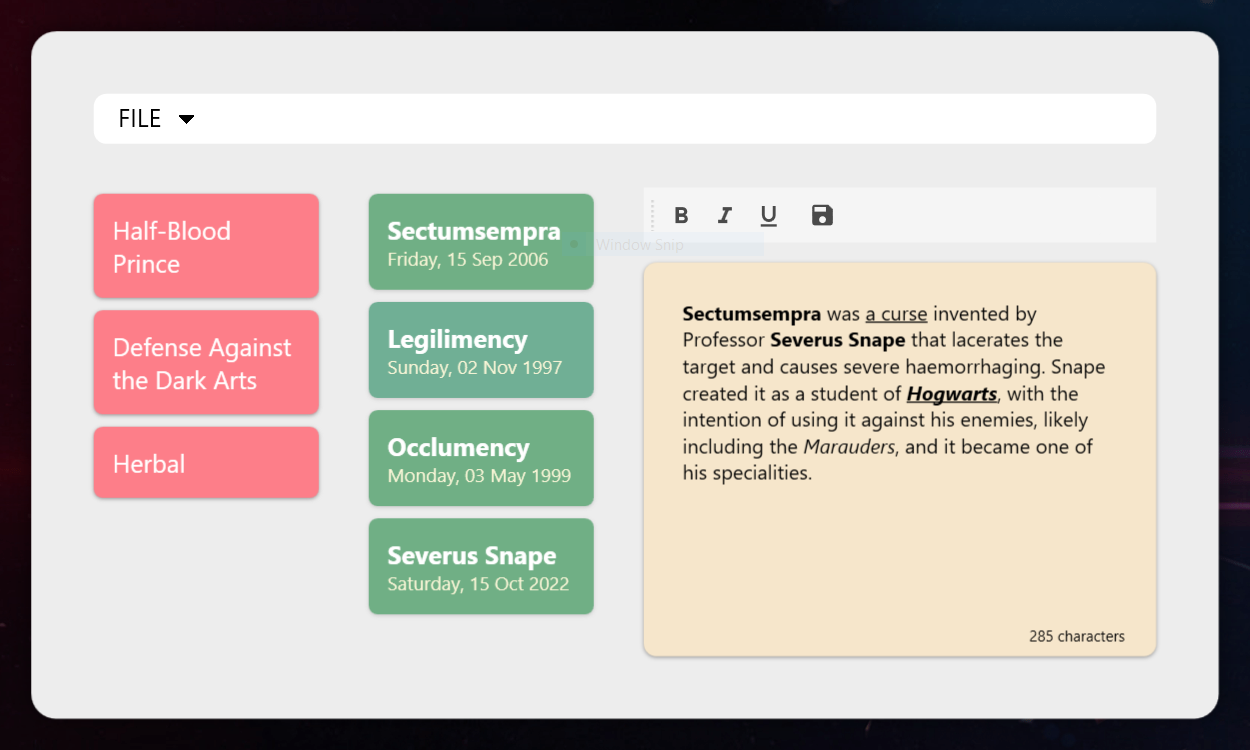
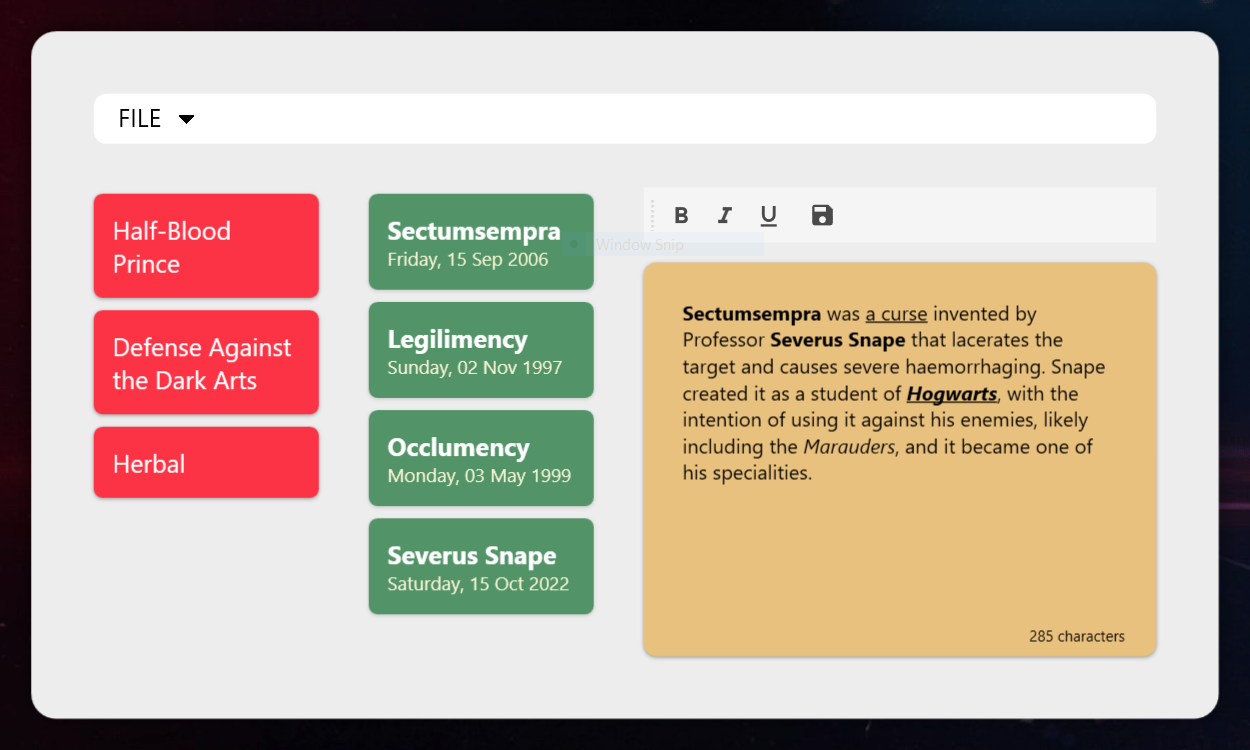
Update Color

diff --git a/NoteApp/MyResourceDictionary/MyCustomCards.xaml b/NoteApp/MyResourceDictionary/MyCustomCards.xaml
@@ -9,7 +9,7 @@
             <Setter.Value>
                 <ControlTemplate TargetType="materialDesign:Card">
                     <Border x:Name="border"
-                            Background="#FD7E89"
+                            Background="#fc3345"
                             Margin="5"
                             CornerRadius="7">
                         <Grid>
@@ -24,7 +24,7 @@
                     <ControlTemplate.Triggers>
                         <Trigger Property="IsMouseOver" Value="True">
                             <Setter TargetName="border"
-                                    Property="Background" Value="#FD7E99"/>
+                                    Property="Background" Value="#FD7E89"/>
                         </Trigger>
                     </ControlTemplate.Triggers>
                 </ControlTemplate>
@@ -39,7 +39,7 @@
             <Setter.Value>
                 <ControlTemplate TargetType="materialDesign:Card">
                     <Border x:Name="border"
-                            Background="#70AF85"
+                            Background="#529368"
                             Margin="5"
                             CornerRadius="7">
                         <Grid>
@@ -60,7 +60,7 @@
                     <ControlTemplate.Triggers>
                         <Trigger Property="IsMouseOver" Value="True">
                             <Setter TargetName="border"
-                                    Property="Background" Value="#70AF95"/>
+                                    Property="Background" Value="#70AF85"/>
                         </Trigger>
                     </ControlTemplate.Triggers>
                 </ControlTemplate>

diff --git a/NoteApp/View/NotesWindow.xaml b/NoteApp/View/NotesWindow.xaml
@@ -187,7 +187,7 @@
                 HorizontalAlignment="Right"
                 VerticalAlignment="Bottom"
                 Margin="0 0 75 75"
-                Background="#F6E6CB"
+                Background="#e9c17e"
                 CornerRadius="10">
             <Border.Effect>
                 <DropShadowEffect BlurRadius="5" ShadowDepth="1" Direction="270" Color="#CCCCCC"/>
@@ -199,7 +199,7 @@
                              FontFamily="Segoe UI"
                              FontSize="16"
                              TextChanged="RichTextBox_TextChanged"
-                             Background="#F6E6CB"
+                             Background="#e9c17e"
                              BorderThickness="0"
                              SelectionChanged="ContentRichTextBox_SelectionChanged"
                              Style="{StaticResource StyleForRichTextBox}"/>
